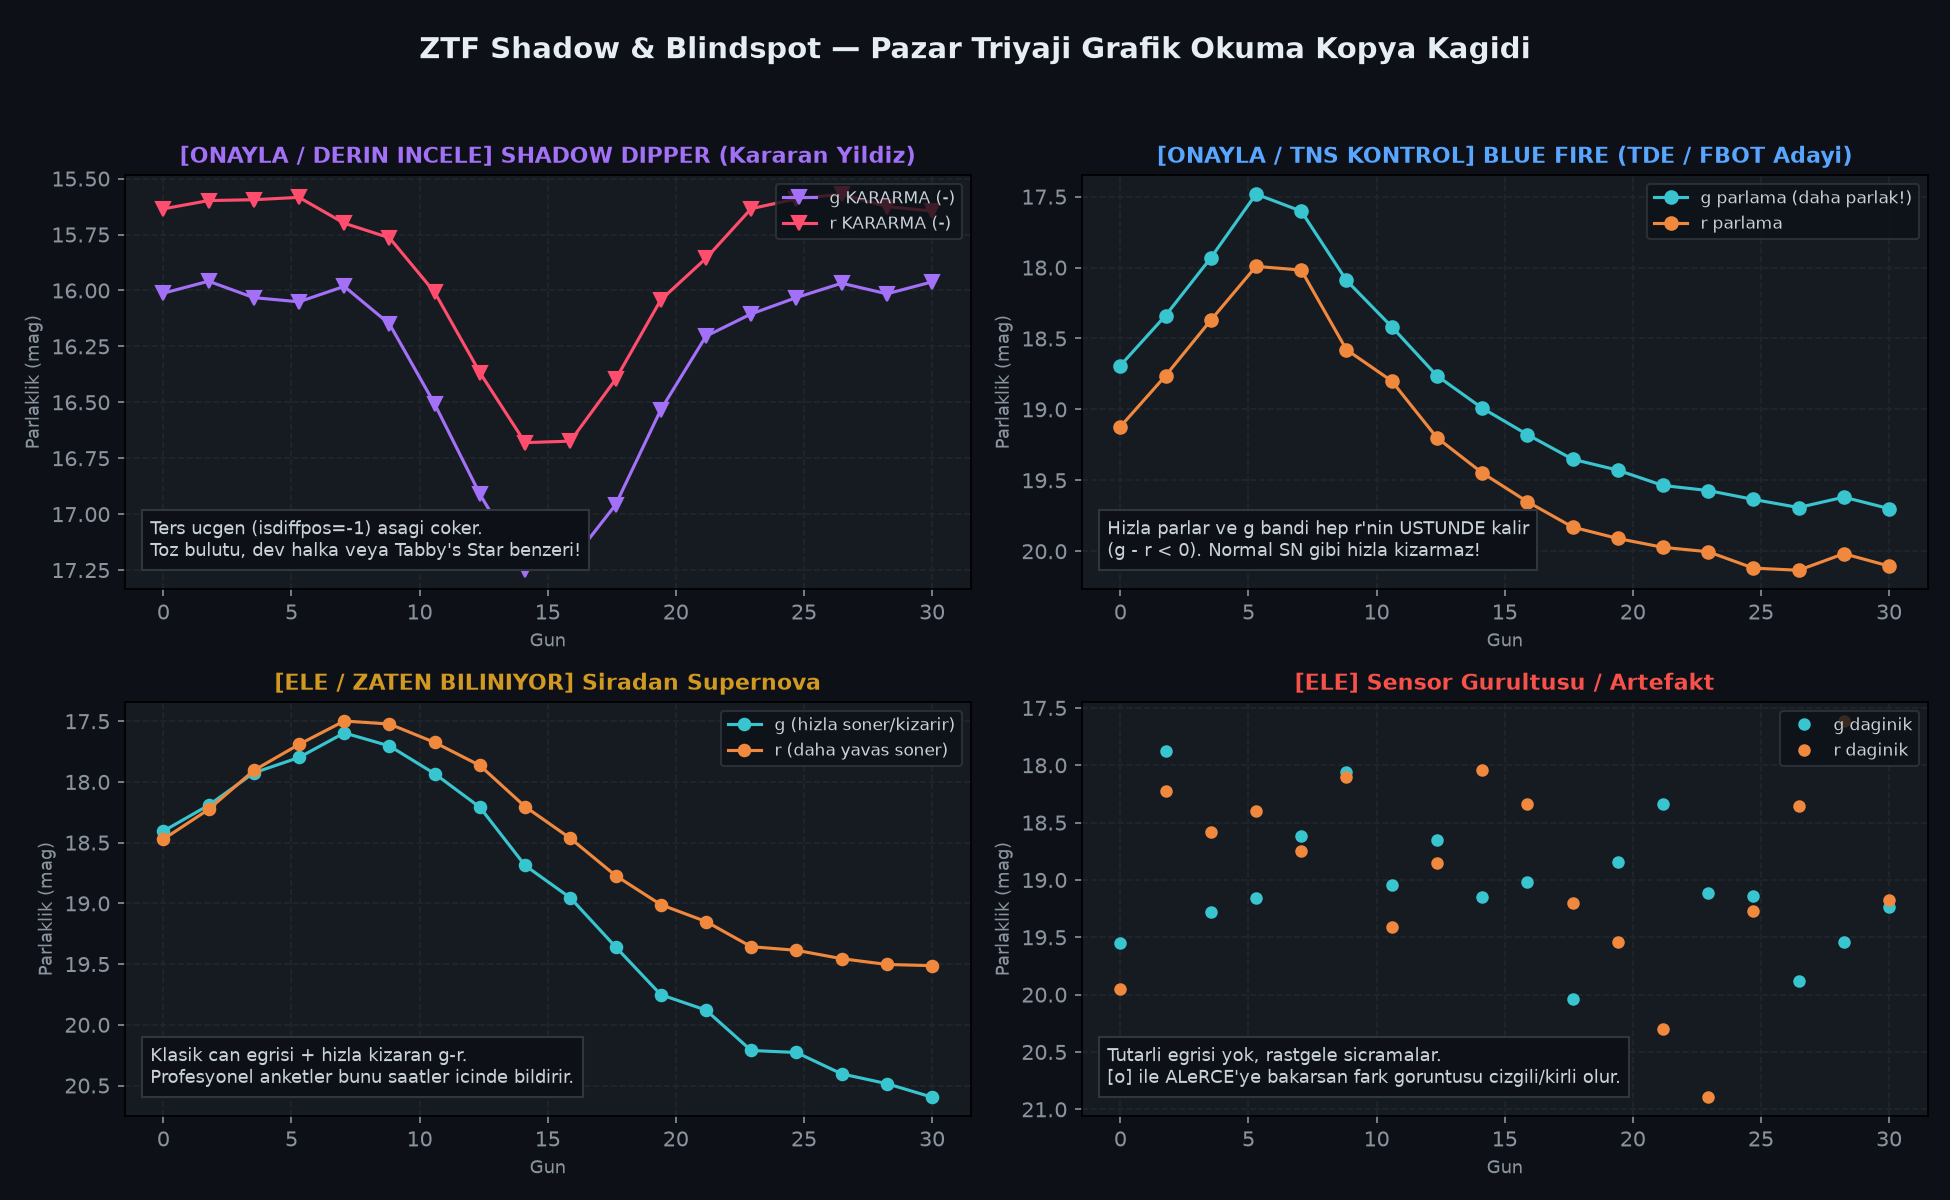
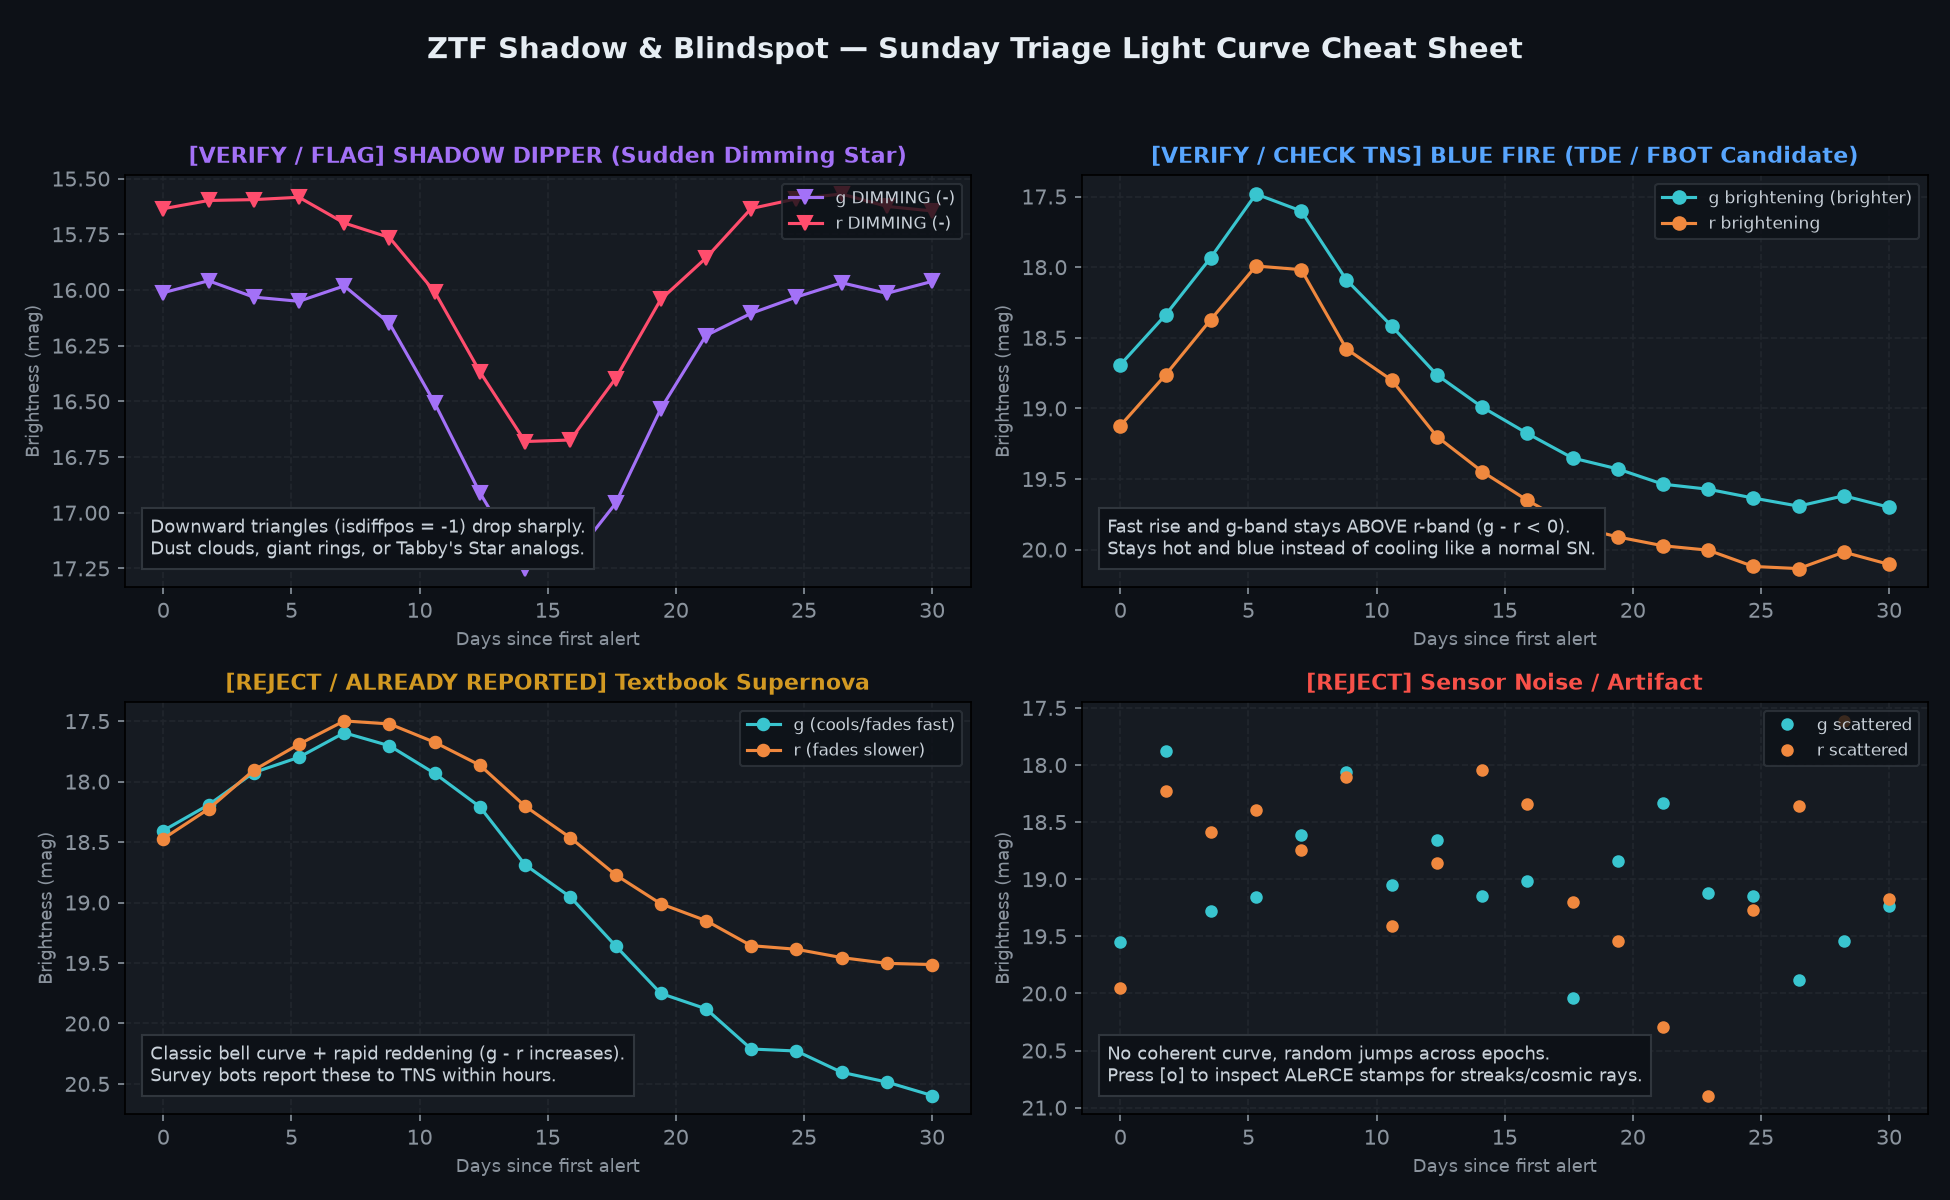
docs: translate plots to English and remove top badge

diff --git a/scripts/make_cheat_sheet.py b/scripts/make_cheat_sheet.py
@@ -9,7 +9,7 @@ def build_cheat_sheet(out_path: str = "triage_cheat_sheet.png") -> Path:
     rng = np.random.default_rng(42)
     fig, axes = plt.subplots(2, 2, figsize=(13, 8), facecolor="#0d1117")
     fig.suptitle(
-        "ZTF Shadow & Blindspot — Pazar Triyaji Grafik Okuma Kopya Kagidi",
+        "ZTF Shadow & Blindspot — Sunday Triage Light Curve Cheat Sheet",
         color="#e6edf3",
         fontsize=14,
         fontweight="bold",
@@ -23,50 +23,70 @@ def build_cheat_sheet(out_path: str = "triage_cheat_sheet.png") -> Path:
     ax.set_facecolor("#161b22")
     dip = 16.0 + 1.3 * np.exp(-0.5 * ((t - 15) / 3.2) ** 2) + rng.normal(0, 0.04, size=len(t))
     dip_r = 15.6 + 1.1 * np.exp(-0.5 * ((t - 15) / 3.2) ** 2) + rng.normal(0, 0.04, size=len(t))
-    ax.plot(t, dip, "v-", color="#a371f7", ms=7, label="g KARARMA (-)")
-    ax.plot(t, dip_r, "v-", color="#ff4d6d", ms=7, label="r KARARMA (-)")
+    ax.plot(t, dip, "v-", color="#a371f7", ms=7, label="g DIMMING (-)")
+    ax.plot(t, dip_r, "v-", color="#ff4d6d", ms=7, label="r DIMMING (-)")
     ax.invert_yaxis()
-    ax.set_title("[ONAYLA / DERIN INCELE] SHADOW DIPPER (Kararan Yildiz)", color="#a371f7", fontsize=10.5, fontweight="bold")
-    ax.text(0.03, 0.08, "Ters ucgen (isdiffpos=-1) asagi coker.\nToz bulutu, dev halka veya Tabby's Star benzeri!", transform=ax.transAxes, color="#c9d1d9", fontsize=8.5, bbox=dict(facecolor="#0d1117", edgecolor="#30363d"))
+    ax.set_title("[VERIFY / FLAG] SHADOW DIPPER (Sudden Dimming Star)", color="#a371f7", fontsize=10.5, fontweight="bold")
+    ax.text(
+        0.03, 0.08,
+        "Downward triangles (isdiffpos = -1) drop sharply.\nDust clouds, giant rings, or Tabby's Star analogs.",
+        transform=ax.transAxes, color="#c9d1d9", fontsize=8.5,
+        bbox=dict(facecolor="#0d1117", edgecolor="#30363d"),
+    )
 
     # 2. Blue Fire / TDE / FBOT (KEEP!)
     ax = axes[0, 1]
     ax.set_facecolor("#161b22")
     g_bf = 19.8 - 2.6 * np.exp(-np.abs(t - 6) / 7.0) + rng.normal(0, 0.05, size=len(t))
     r_bf = g_bf + 0.45 + rng.normal(0, 0.04, size=len(t))  # g brighter than r -> g - r < 0 (blue!)
-    ax.plot(t, g_bf, "o-", color="#39c5cf", ms=6, label="g parlama (daha parlak!)")
-    ax.plot(t, r_bf, "o-", color="#f0883e", ms=6, label="r parlama")
+    ax.plot(t, g_bf, "o-", color="#39c5cf", ms=6, label="g brightening (brighter)")
+    ax.plot(t, r_bf, "o-", color="#f0883e", ms=6, label="r brightening")
     ax.invert_yaxis()
-    ax.set_title("[ONAYLA / TNS KONTROL] BLUE FIRE (TDE / FBOT Adayi)", color="#58a6ff", fontsize=10.5, fontweight="bold")
-    ax.text(0.03, 0.08, "Hizla parlar ve g bandi hep r'nin USTUNDE kalir\n(g - r < 0). Normal SN gibi hizla kizarmaz!", transform=ax.transAxes, color="#c9d1d9", fontsize=8.5, bbox=dict(facecolor="#0d1117", edgecolor="#30363d"))
+    ax.set_title("[VERIFY / CHECK TNS] BLUE FIRE (TDE / FBOT Candidate)", color="#58a6ff", fontsize=10.5, fontweight="bold")
+    ax.text(
+        0.03, 0.08,
+        "Fast rise and g-band stays ABOVE r-band (g - r < 0).\nStays hot and blue instead of cooling like a normal SN.",
+        transform=ax.transAxes, color="#c9d1d9", fontsize=8.5,
+        bbox=dict(facecolor="#0d1117", edgecolor="#30363d"),
+    )
 
     # 3. Textbook Supernova (Boring / Already Reported)
     ax = axes[1, 0]
     ax.set_facecolor("#161b22")
     r_sn = 19.5 - 2.0 * np.exp(-((t - 8) ** 2) / 90.0) + rng.normal(0, 0.05, size=len(t))
     g_sn = r_sn + np.linspace(-0.1, 1.1, len(t)) + rng.normal(0, 0.05, size=len(t))
-    ax.plot(t, g_sn, "o-", color="#39c5cf", ms=5.5, label="g (hizla soner/kizarir)")
-    ax.plot(t, r_sn, "o-", color="#f0883e", ms=5.5, label="r (daha yavas soner)")
+    ax.plot(t, g_sn, "o-", color="#39c5cf", ms=5.5, label="g (cools/fades fast)")
+    ax.plot(t, r_sn, "o-", color="#f0883e", ms=5.5, label="r (fades slower)")
     ax.invert_yaxis()
-    ax.set_title("[ELE / ZATEN BILINIYOR] Siradan Supernova", color="#d29922", fontsize=10.5, fontweight="bold")
-    ax.text(0.03, 0.08, "Klasik can egrisi + hizla kizaran g-r.\nProfesyonel anketler bunu saatler icinde bildirir.", transform=ax.transAxes, color="#c9d1d9", fontsize=8.5, bbox=dict(facecolor="#0d1117", edgecolor="#30363d"))
+    ax.set_title("[REJECT / ALREADY REPORTED] Textbook Supernova", color="#d29922", fontsize=10.5, fontweight="bold")
+    ax.text(
+        0.03, 0.08,
+        "Classic bell curve + rapid reddening (g - r increases).\nSurvey bots report these to TNS within hours.",
+        transform=ax.transAxes, color="#c9d1d9", fontsize=8.5,
+        bbox=dict(facecolor="#0d1117", edgecolor="#30363d"),
+    )
 
     # 4. Artifact / Bogus / Noise (REJECT!)
     ax = axes[1, 1]
     ax.set_facecolor("#161b22")
     noise_g = 19.0 + rng.normal(0, 0.65, size=len(t))
     noise_r = 19.0 + rng.normal(0, 0.65, size=len(t))
-    ax.plot(t, noise_g, "o", color="#39c5cf", ms=5, label="g daginik")
-    ax.plot(t, noise_r, "o", color="#f0883e", ms=5, label="r daginik")
+    ax.plot(t, noise_g, "o", color="#39c5cf", ms=5, label="g scattered")
+    ax.plot(t, noise_r, "o", color="#f0883e", ms=5, label="r scattered")
     ax.invert_yaxis()
-    ax.set_title("[ELE] Sensor Gurultusu / Artefakt", color="#f85149", fontsize=10.5, fontweight="bold")
-    ax.text(0.03, 0.08, "Tutarli egrisi yok, rastgele sicramalar.\n[o] ile ALeRCE'ye bakarsan fark goruntusu cizgili/kirli olur.", transform=ax.transAxes, color="#c9d1d9", fontsize=8.5, bbox=dict(facecolor="#0d1117", edgecolor="#30363d"))
+    ax.set_title("[REJECT] Sensor Noise / Artifact", color="#f85149", fontsize=10.5, fontweight="bold")
+    ax.text(
+        0.03, 0.08,
+        "No coherent curve, random jumps across epochs.\nPress [o] to inspect ALeRCE stamps for streaks/cosmic rays.",
+        transform=ax.transAxes, color="#c9d1d9", fontsize=8.5,
+        bbox=dict(facecolor="#0d1117", edgecolor="#30363d"),
+    )
 
     for ax in axes.flat:
         ax.grid(True, color="#21262d", linestyle="--")
         ax.tick_params(colors="#8b949e")
-        ax.set_xlabel("Gun", color="#8b949e", fontsize=8.5)
-        ax.set_ylabel("Parlaklik (mag)", color="#8b949e", fontsize=8.5)
+        ax.set_xlabel("Days since first alert", color="#8b949e", fontsize=8.5)
+        ax.set_ylabel("Brightness (mag)", color="#8b949e", fontsize=8.5)
         ax.legend(loc="upper right", facecolor="#0d1117", edgecolor="#30363d", labelcolor="#c9d1d9", fontsize=8)
 
     plt.tight_layout(rect=[0, 0, 1, 0.94])
@@ -78,4 +98,4 @@ def build_cheat_sheet(out_path: str = "triage_cheat_sheet.png") -> Path:
 
 if __name__ == "__main__":
     saved = build_cheat_sheet()
-    print(f"[OK] Grafik okuma kopya kagidi olusturuldu -> {saved}")
+    print(f"[OK] Cheat sheet generated -> {saved}")

diff --git a/triage.py b/triage.py
@@ -66,7 +66,7 @@ class ZTFWeirdTriage:
     def setup_ui(self) -> None:
         self.fig = plt.figure(figsize=(14, 7.2), facecolor="#0d1117")
         self.fig.canvas.manager.set_window_title(
-            f"ZTF Shadow & Blindspot Triyaj - {os.path.basename(self.npz_path)}"
+            f"ZTF Shadow & Blindspot Triage - {os.path.basename(self.npz_path)}"
         )
 
         # Left: Light curve (g & r bands, positive vs negative alerts)
@@ -85,7 +85,7 @@ class ZTFWeirdTriage:
         self.fig.text(
             0.06,
             0.03,
-            "[Sag] Onayla  |  [Asagi] Ele  |  [Yukari] Derin Incele  |  [Sol] Geri Al  |  [o] ALeRCE+Legacy+TNS Ac  |  [q] Kaydet & Cikis",
+            "[Right] Verify  |  [Down] Reject  |  [Up] Flag  |  [Left] Undo  |  [o] Open ALeRCE+Legacy+TNS+VSX  |  [q] Save & Quit",
             color="#8b949e",
             fontsize=9,
             family="monospace",
@@ -111,7 +111,7 @@ class ZTFWeirdTriage:
 
     def update_plot(self) -> None:
         if self.idx >= self.total:
-            self.hud.set_text("TUM ADAYLAR TARANDI! Kararlar kaydedildi — kapatmak icin [q]'ya bas.")
+            self.hud.set_text("ALL CANDIDATES REVIEWED! Decisions saved — press [q] to exit.")
             self.subhud.set_text("")
             self.fig.canvas.draw_idle()
             return
@@ -130,14 +130,14 @@ class ZTFWeirdTriage:
 
         track_color = "#ff7b72" if track == "SHADOW" else ("#d2a8ff" if track == "HYBRID" else "#58a6ff")
         cat_status = str(self.catalog_status[self.idx])
-        cat_badge = "★ UNCATALOGED (SIMBAD/VSX YOK!)" if cat_status == "UNCATALOGED" else cat_status
+        cat_badge = "★ UNCATALOGED (NOT IN SIMBAD/VSX)" if cat_status == "UNCATALOGED" else cat_status
         self.hud.set_color("#3fb950" if cat_status == "UNCATALOGED" else track_color)
         self.hud.set_text(
-            f"[{track}] {oid}  |  Weirdness: {score_str}  |  Katalog: {cat_badge}  |  ({self.idx + 1}/{self.total})"
+            f"[{track}] {oid}  |  Weirdness: {score_str}  |  Catalog: {cat_badge}  |  ({self.idx + 1}/{self.total})"
         )
         self.subhud.set_text(
-            f"Etiket: {tags} | RA/Dec: {ra:.4f}, {dec:+.4f} | ndet: {int(self.ndet[self.idx])} | "
-            f"Genlik: {amp_mag:.2f}m | Stamp AI: {self.stamp_cls[self.idx]}({self.stamp_prob[self.idx]*100:.0f}%) "
+            f"Tags: {tags} | RA/Dec: {ra:.4f}, {dec:+.4f} | ndet: {int(self.ndet[self.idx])} | "
+            f"Amp: {amp_mag:.2f}m | Stamp AI: {self.stamp_cls[self.idx]}({self.stamp_prob[self.idx]*100:.0f}%) "
             f"vs LC AI: {self.lc_cls[self.idx]}({self.lc_prob[self.idx]*100:.0f}%)"
         )
 
@@ -152,10 +152,10 @@ class ZTFWeirdTriage:
         valid = np.isfinite(dt) & np.isfinite(mag)
 
         specs = [
-            ((fid == 1) & (sign >= 0) & valid, "o", "#39c5cf", "g-band parlama (+)"),
-            ((fid == 1) & (sign < 0) & valid, "v", "#a371f7", "g-band KARARMA (-)"),
-            ((fid == 2) & (sign >= 0) & valid, "o", "#f0883e", "r-band parlama (+)"),
-            ((fid == 2) & (sign < 0) & valid, "v", "#ff4d6d", "r-band KARARMA (-)"),
+            ((fid == 1) & (sign >= 0) & valid, "o", "#39c5cf", "g-band brightening (+)"),
+            ((fid == 1) & (sign < 0) & valid, "v", "#a371f7", "g-band DIMMING (-)"),
+            ((fid == 2) & (sign >= 0) & valid, "o", "#f0883e", "r-band brightening (+)"),
+            ((fid == 2) & (sign < 0) & valid, "v", "#ff4d6d", "r-band DIMMING (-)"),
         ]
         for mask, marker, color, lbl in specs:
             if np.any(mask):
@@ -172,9 +172,9 @@ class ZTFWeirdTriage:
                 )
 
         self.ax_lc.invert_yaxis()  # Astronomy convention: smaller mag = brighter (up)
-        self.ax_lc.set_title("ZTF Isik Egrisi (Yukari = Parlak | Asagi = Kararma)", color="#c9d1d9", fontsize=10)
-        self.ax_lc.set_xlabel("Ilk gozlemden itibaren gecen gun", color="#8b949e", fontsize=9)
-        self.ax_lc.set_ylabel("Parlaklik (mag)", color="#8b949e", fontsize=9)
+        self.ax_lc.set_title("ZTF Light Curve (Up = Brighter | Down = Dimming)", color="#c9d1d9", fontsize=10)
+        self.ax_lc.set_xlabel("Days since first detection", color="#8b949e", fontsize=9)
+        self.ax_lc.set_ylabel("Brightness (mag)", color="#8b949e", fontsize=9)
         self.ax_lc.grid(True, color="#21262d", linestyle="--")
         self.ax_lc.tick_params(colors="#8b949e")
         self.ax_lc.legend(loc="best", facecolor="#0d1117", edgecolor="#30363d", labelcolor="#c9d1d9", fontsize=8)
@@ -193,12 +193,12 @@ class ZTFWeirdTriage:
             self.ax_col.set_ylim(ylo, yhi)
         else:
             self.ax_col.text(
-                0.5, 0.5, f"Eslesmis g-r yok\n(Medyan g-r: {g_minus_r:+.2f})",
+                0.5, 0.5, f"No paired g-r epochs\n(Median g-r: {g_minus_r:+.2f})",
                 transform=self.ax_col.transAxes, ha="center", va="center", color="#8b949e", fontsize=9
             )
             self.ax_col.set_ylim(-0.8, 1.0)
 
-        self.ax_col.set_title("Renk Evrimi (g - r) | Mavi Bolge < 0 = Sicak / TDE-FBOT", color="#c9d1d9", fontsize=9.5)
+        self.ax_col.set_title("Color Evolution (g - r) | Blue Zone < 0 = Hot / TDE-FBOT", color="#c9d1d9", fontsize=9.5)
         self.ax_col.set_ylabel("g - r (mag)", color="#8b949e", fontsize=8.5)
         self.ax_col.grid(True, color="#21262d", linestyle="--")
         self.ax_col.tick_params(colors="#8b949e")
@@ -206,7 +206,7 @@ class ZTFWeirdTriage:
         # --- Right-Bottom Panel: Weirdness & AI Metrics ---
         self.ax_bar.clear()
         self.ax_bar.set_facecolor("#161b22")
-        labels = ["Real/Bogus", "AI Entropi", "AI Kavga", "Kararma (-)", "Weirdness"]
+        labels = ["Real/Bogus", "AI Entropy", "AI Conflict", "Dimming (-)", "Weirdness"]
         vals = [
             rb_med,
             lc_ent,
@@ -222,7 +222,7 @@ class ZTFWeirdTriage:
         self.ax_bar.set_xlim(0.0, 1.05)
         for yp, v in zip(y_pos, vals):
             self.ax_bar.text(min(v + 0.02, 0.90), yp, f"{v*100:.0f}%", va="center", color="#c9d1d9", fontsize=8)
-        self.ax_bar.set_title("Anomali & AI Sinyal Kirilimi", color="#c9d1d9", fontsize=9.5)
+        self.ax_bar.set_title("Anomaly & AI Signal Breakdown", color="#c9d1d9", fontsize=9.5)
         self.ax_bar.grid(True, axis="x", color="#21262d", linestyle="--")
         self.ax_bar.tick_params(colors="#8b949e")
 

diff --git a/README.md b/README.md
@@ -4,7 +4,6 @@
 ![GitHub Actions](https://img.shields.io/badge/GitHub%20Actions-Nightly-2088FF?logo=githubactions&logoColor=white)
 ![ZTF / ALeRCE](https://img.shields.io/badge/Data-ZTF%20%2F%20ALeRCE-8957E5)
 ![Scikit-Learn](https://img.shields.io/badge/ML-Isolation%20Forest-F7931E)
-![Google Antigravity](https://img.shields.io/badge/Built%20with-Google%20Antigravity-4285F4?logo=google&logoColor=white)
 
 After building [TESS Planet Hunter](https://github.com/CemreMetin/tess-planet-hunter) — and finding out the hard way that the IAU won't let me name an exoplanet after myself — I moved on to the next obvious target: **supernovae**. Unlike planets, new supernovae go off every single night in open **ZTF (Zwicky Transient Facility)** data, so the odds of catching something real are way higher.
 
